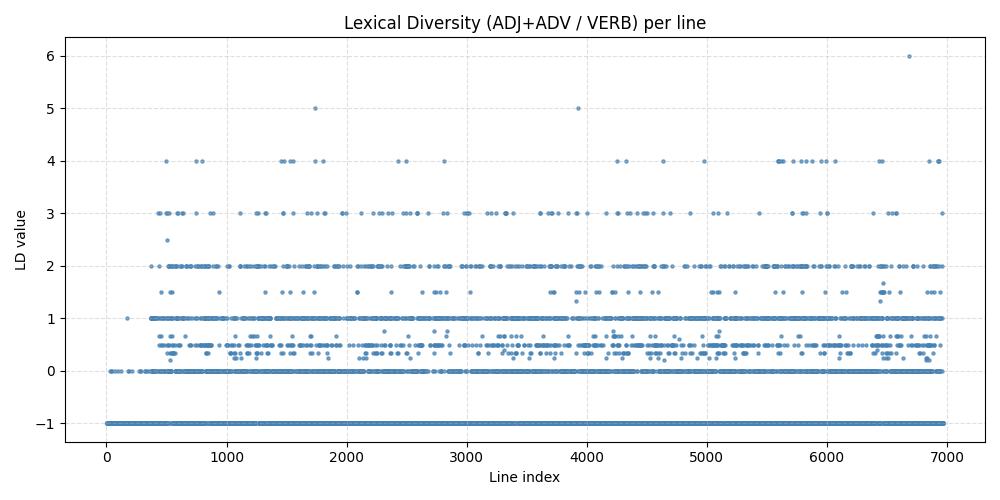
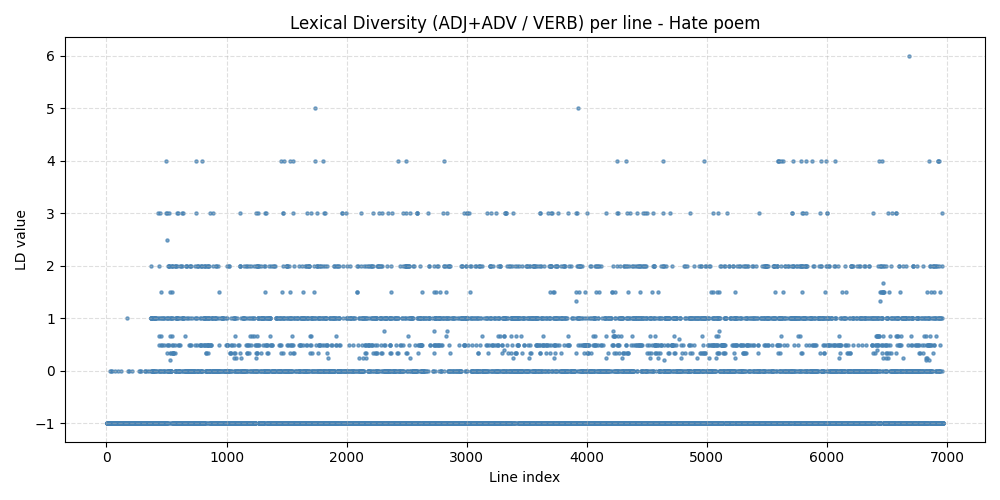
update Graph title name

Changed region(s): [[0.279, 0.03, 0.775, 0.06]]

diff --git a/lexical_diversity.py b/lexical_diversity.py
@@ -10,10 +10,7 @@ import requests
 from tqdm import tqdm
 from nltk import pos_tag, word_tokenize
 from sklearn.metrics.pairwise import cosine_similarity
-<<<<<<< HEAD
-=======
 from scipy.optimize import curve_fit
->>>>>>> random_picking
 
 
 try:
@@ -26,14 +23,11 @@ try:
 except:
     nltk.download('punkt')
 
-<<<<<<< HEAD
-=======
 try:
     nltk.data.find('corpora/stopwords')
 except LookupError:
     nltk.download('stopwords')
 
->>>>>>> random_picking
 
 MODEL_BIN = "cc.en.300.bin"
 DATA_PATH_CSV = "data/csv"
@@ -206,7 +200,10 @@ def plot_LD(data: str, love: bool):
     df = pd.read_csv(os.path.join(DATA_PATH_LD, data))
     plt.figure(figsize=(10, 5))
     plt.scatter(df["line_index"], df["LD_value"], color="steelblue", alpha=0.7, s=5)
-    plt.title("Lexical Diversity (ADJ+ADV / VERB) per line")
+    if love:
+        plt.title("Lexical Diversity (ADJ+ADV / VERB) per line - Love poem")
+    else:
+        plt.title("Lexical Diversity (ADJ+ADV / VERB) per line - Hate poem")
     plt.xlabel("Line index")
     plt.ylabel("LD value")
     plt.grid(True, linestyle="--", alpha=0.4)
@@ -254,8 +251,6 @@ def plot_hist(bin_sub, count, love):
 
     plt.show()
 
-<<<<<<< HEAD
-=======
 def expo(x, a, b, c):
     return a*np.exp(-b*x) + c
 
@@ -348,7 +343,6 @@ def parametric_fitting(bin_sub, count, title):
 
 
 
->>>>>>> random_picking
 
 
 if __name__ == "__main__":
@@ -371,10 +365,6 @@ if __name__ == "__main__":
     df_hate["vectors"] = df_hate.iloc[:, 1].apply(title_to_vector)
 
     df_love["sim_to_vocab"] = df_love["vectors"].apply(sim_to_love_vocab)
-<<<<<<< HEAD
-    # apply sim_to_hate_vocab to hate vectors (was mistakenly using df_love)
-=======
->>>>>>> random_picking
     df_hate["sim_to_vocab"] = df_hate["vectors"].apply(sim_to_hate_vocab)
 
     max_love_sim_to_vocab = get_max_sim_to_vocab(df_love)
@@ -394,19 +384,11 @@ if __name__ == "__main__":
     save_list_to_csv(hate_poem_LD, love=False)
 
     plot_LD("LD_love_poem.csv", love=True)
-<<<<<<< HEAD
-    plot_LD("LD_hate_poem_noskip.csv", love=False)
-=======
     plot_LD("LD_hate_poem.csv", love=False)
->>>>>>> random_picking
 
     df_love_LD = pd.read_csv(os.path.join(DATA_PATH_LD, "LD_love_poem.csv"))
     df_hate_LD = pd.read_csv(os.path.join(DATA_PATH_LD, "LD_hate_poem.csv"))
 
-<<<<<<< HEAD
-    plot_hist(bin_subdivision(love=True), get_number_per_bin_love(df_love_LD), love=True)
-    plot_hist(bin_subdivision(love=False), get_number_per_bin_love(df_hate_LD), love=False)
-=======
     bin_love = bin_subdivision(love=True)
     count_love = get_number_per_bin_love(df_love_LD)
     bin_hate = bin_subdivision(love=False)
@@ -417,6 +399,5 @@ if __name__ == "__main__":
 
     parametric_fitting(bin_love, count_love, "love_poem")
     parametric_fitting(bin_hate, count_hate, "hate_poem")
->>>>>>> random_picking
 
 ##END OF SECTION
